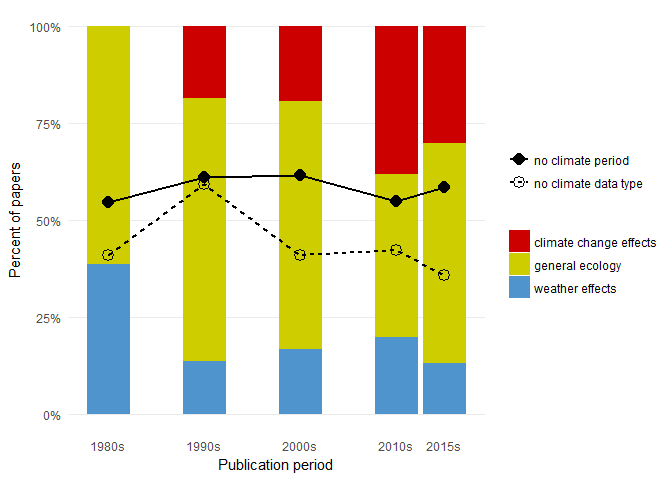
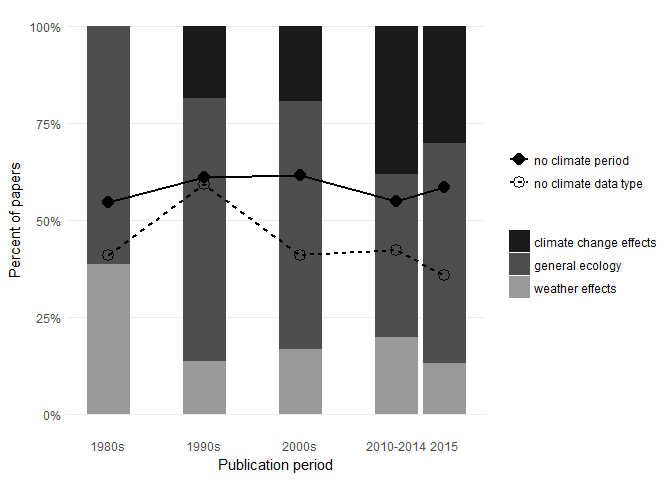
updated figure colors and labels

diff --git a/Climate_data_reporting.md b/Climate_data_reporting.md
@@ -1,6 +1,6 @@
 Climate data reporting analysis
 ================
-September 29 2017
+November 22 2017
 
 Analysis of climate reporting practices in published ecology studies
 --------------------------------------------------------------------
